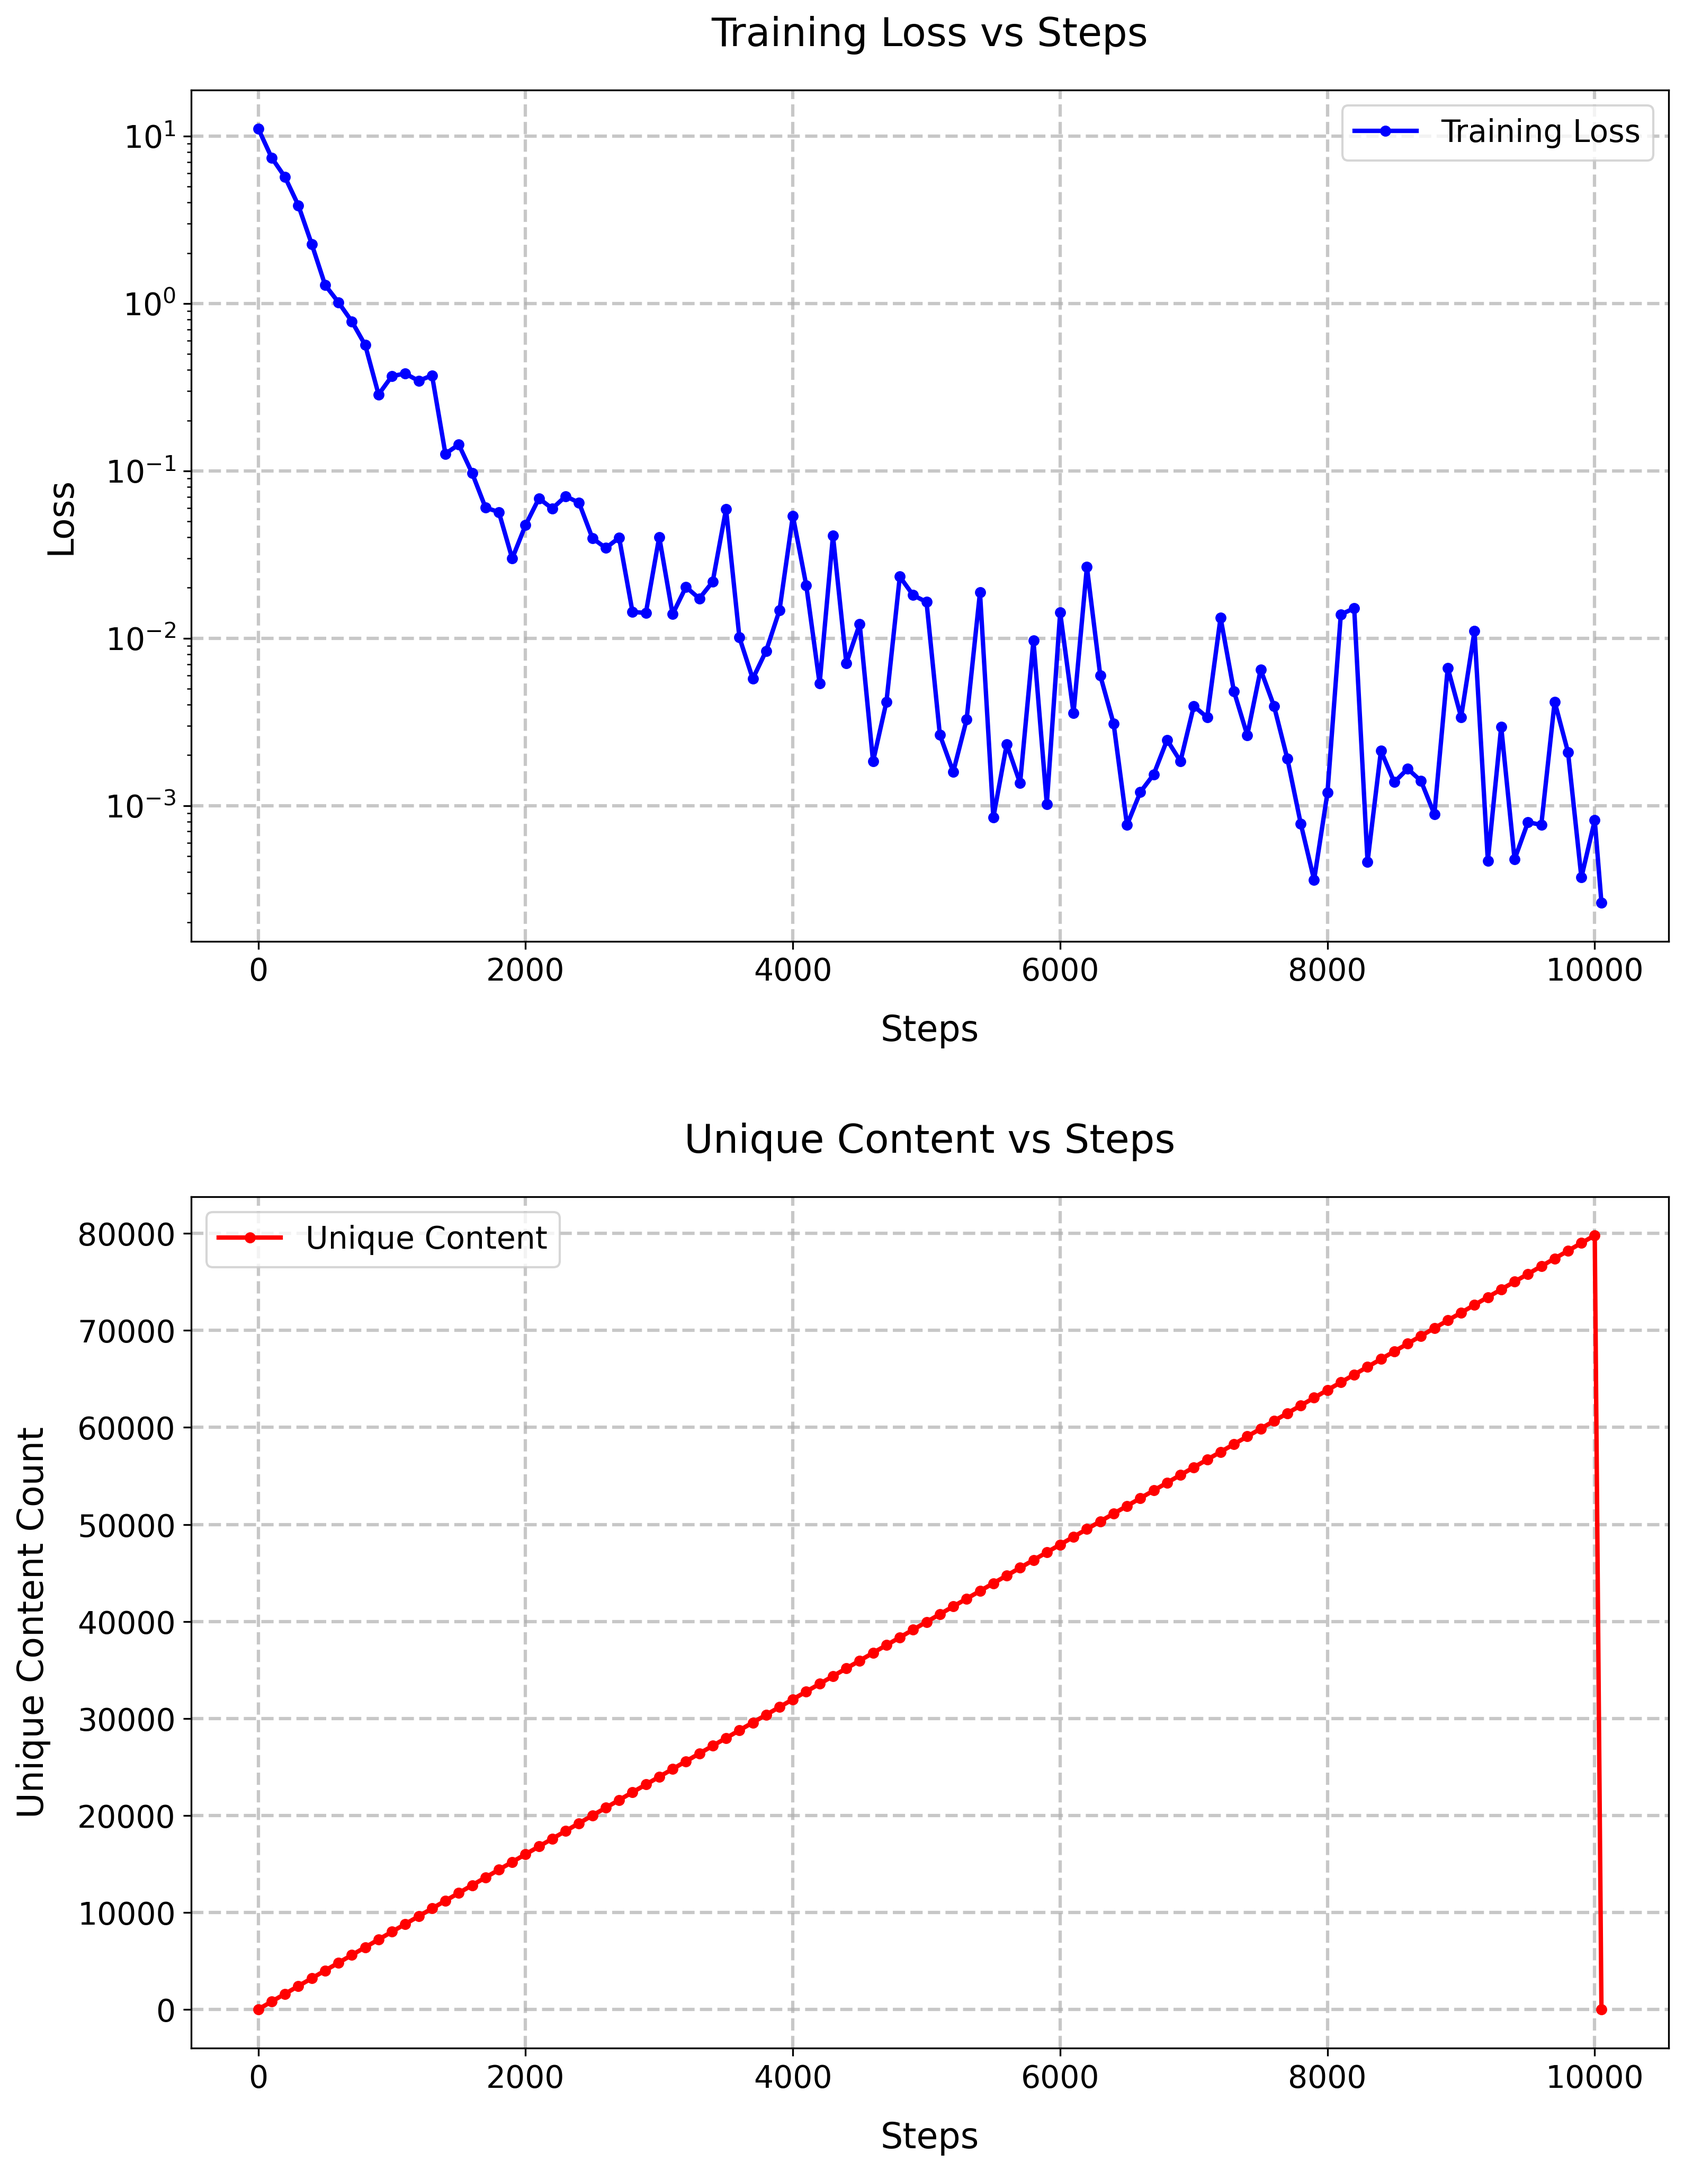
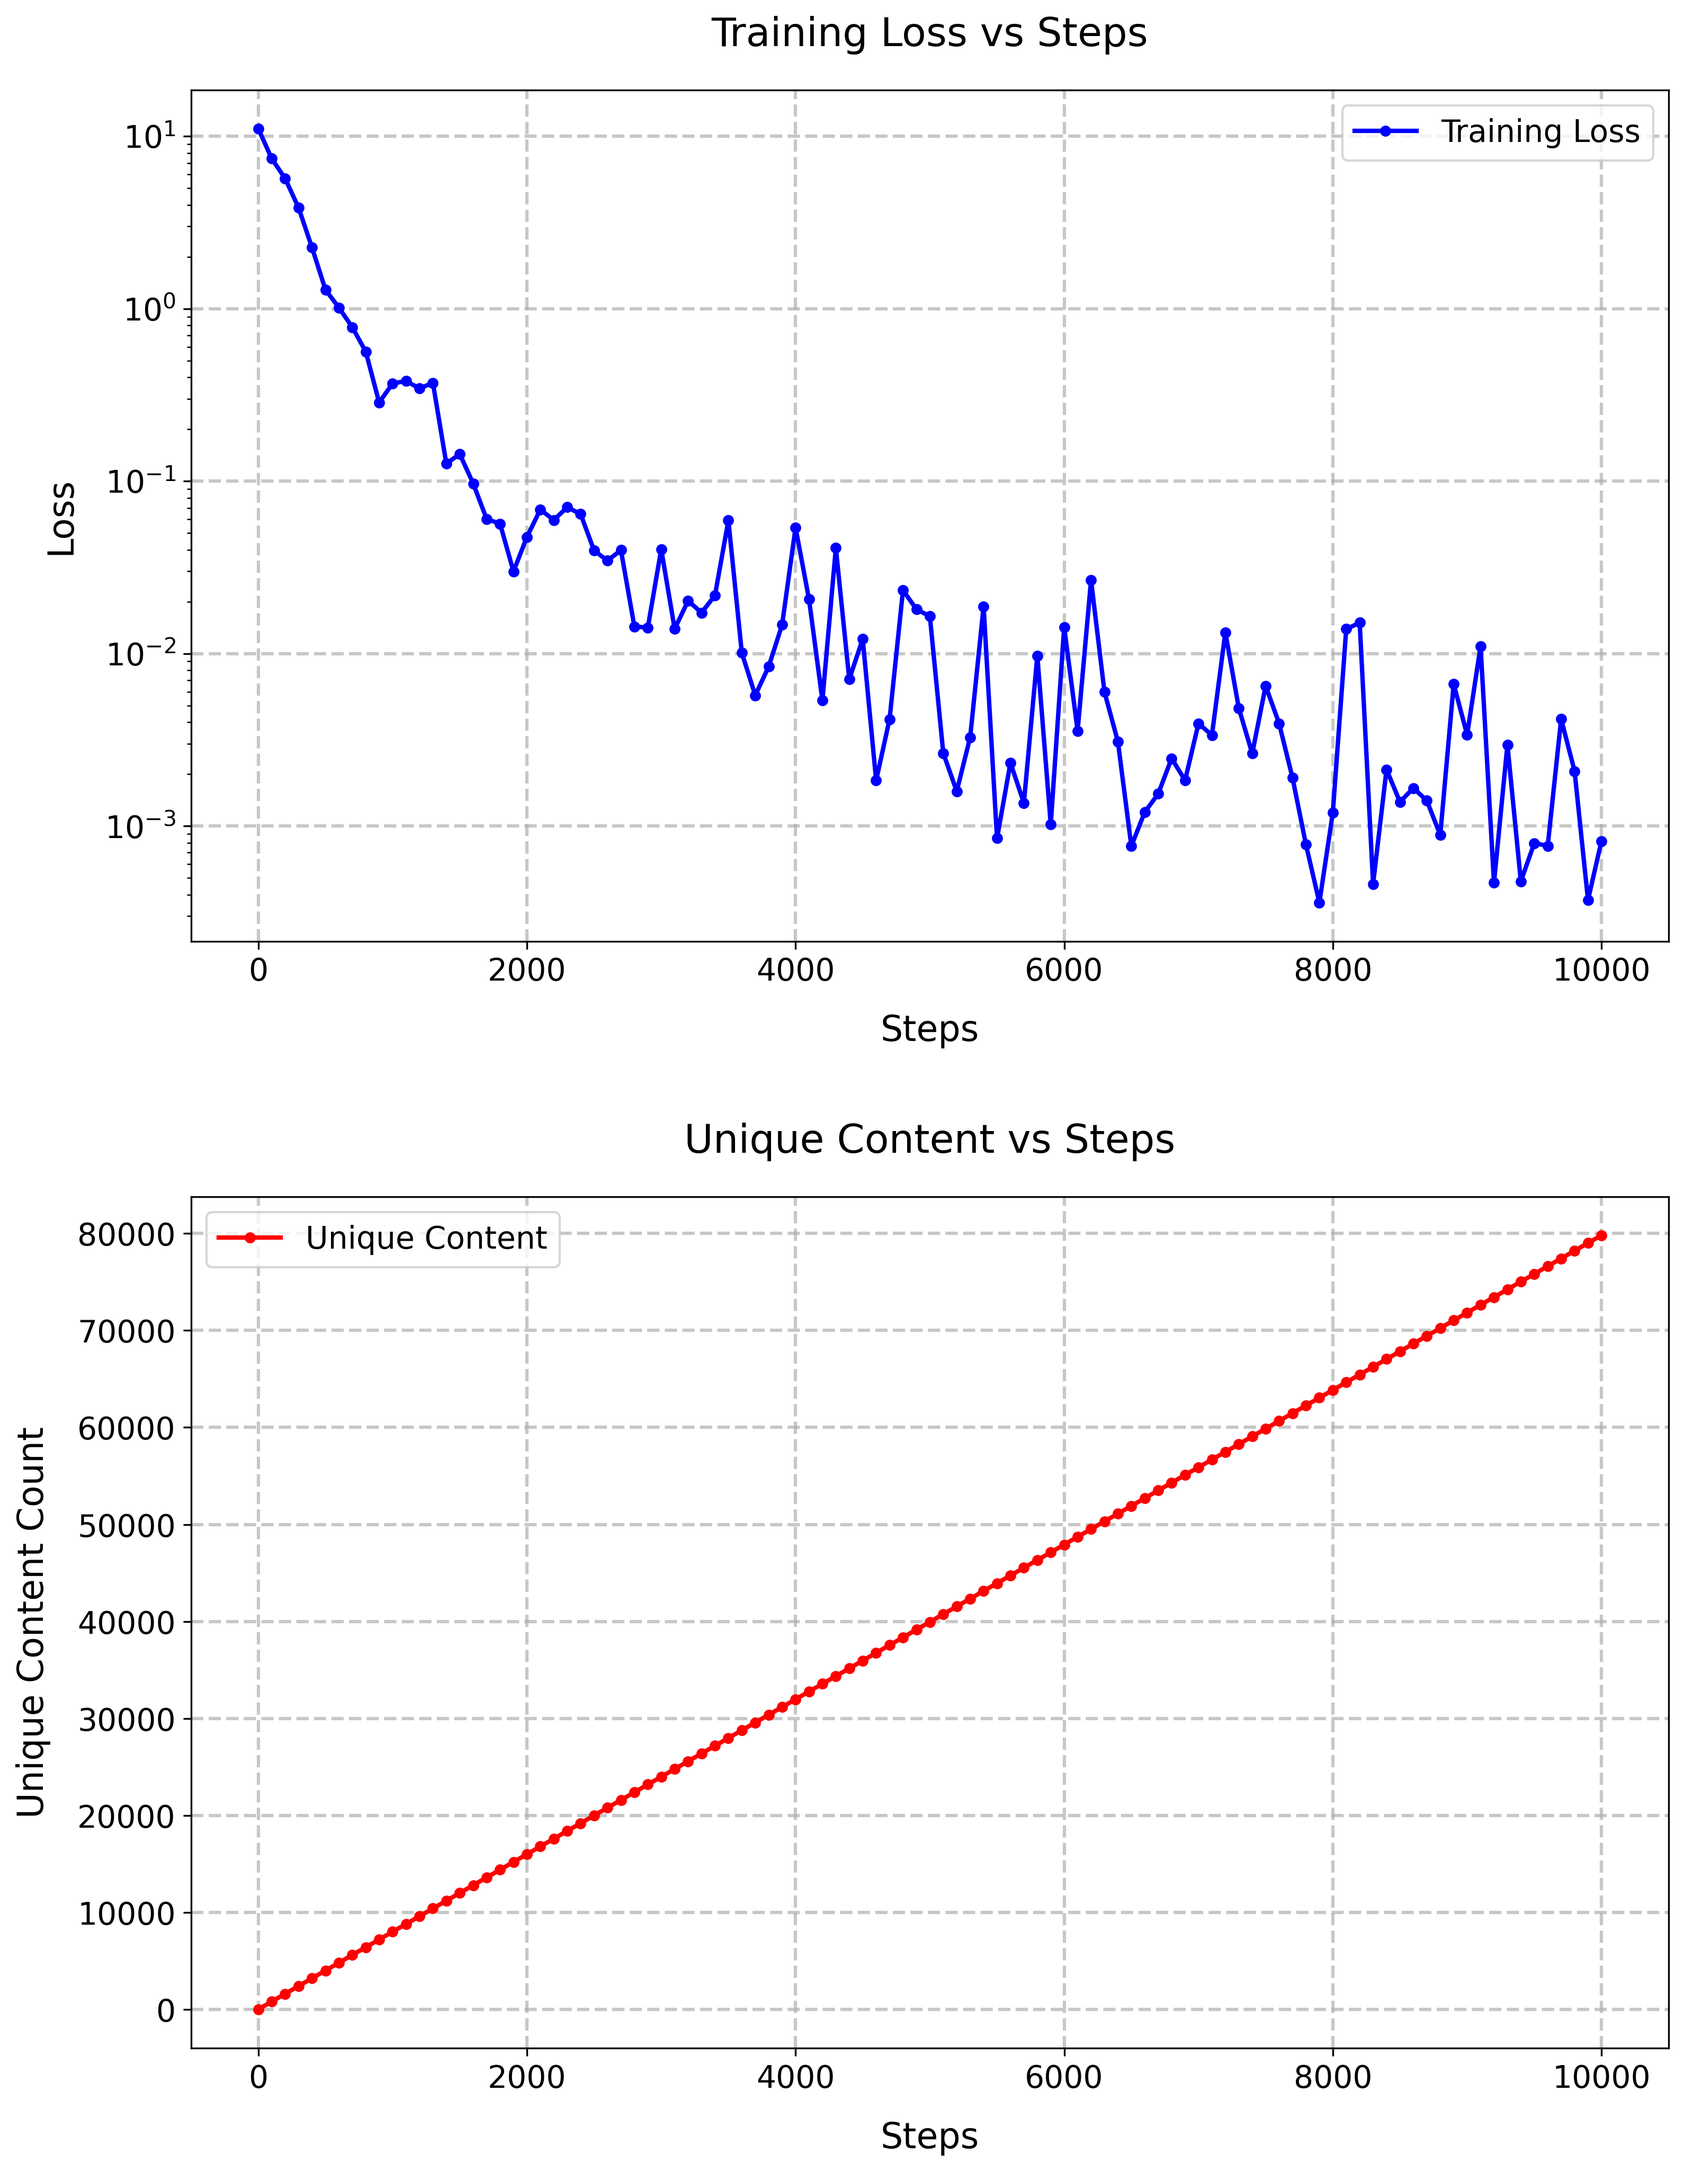
plot the saved metrics for loss and unique content

diff --git a/plots.py b/plots.py
@@ -72,6 +72,12 @@ def load_metrics_from_checkpoints():
 def create_plots():
     """Create and save training metric plots"""
     metrics = load_metrics_from_checkpoints()
+    # print metrics
+    #print(metrics)
+    # remove last loss value
+    metrics['loss'] = metrics['loss'][:-1]
+    metrics['steps'] = metrics['steps'][:-1]
+    metrics['unique_content'] = metrics['unique_content'][:-1]
     
     # Set bigger font sizes globally
     plt.rcParams.update({'font.size': 14})
